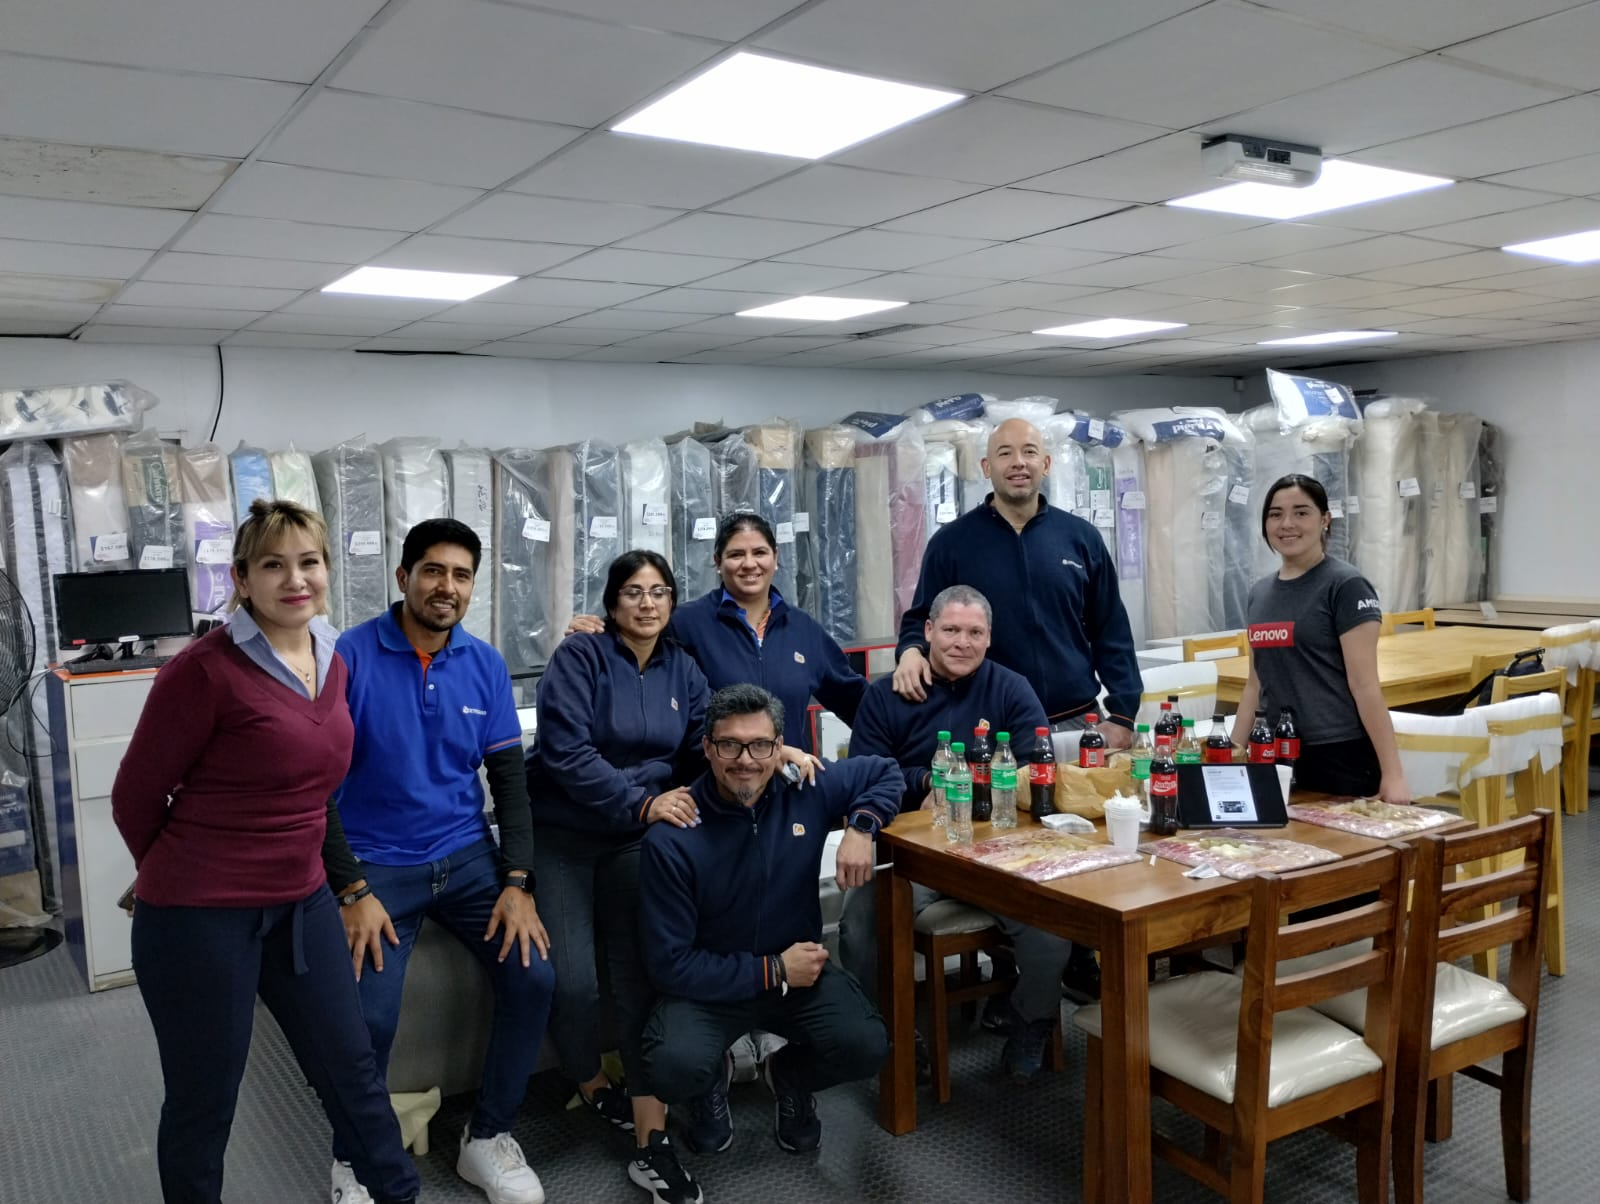
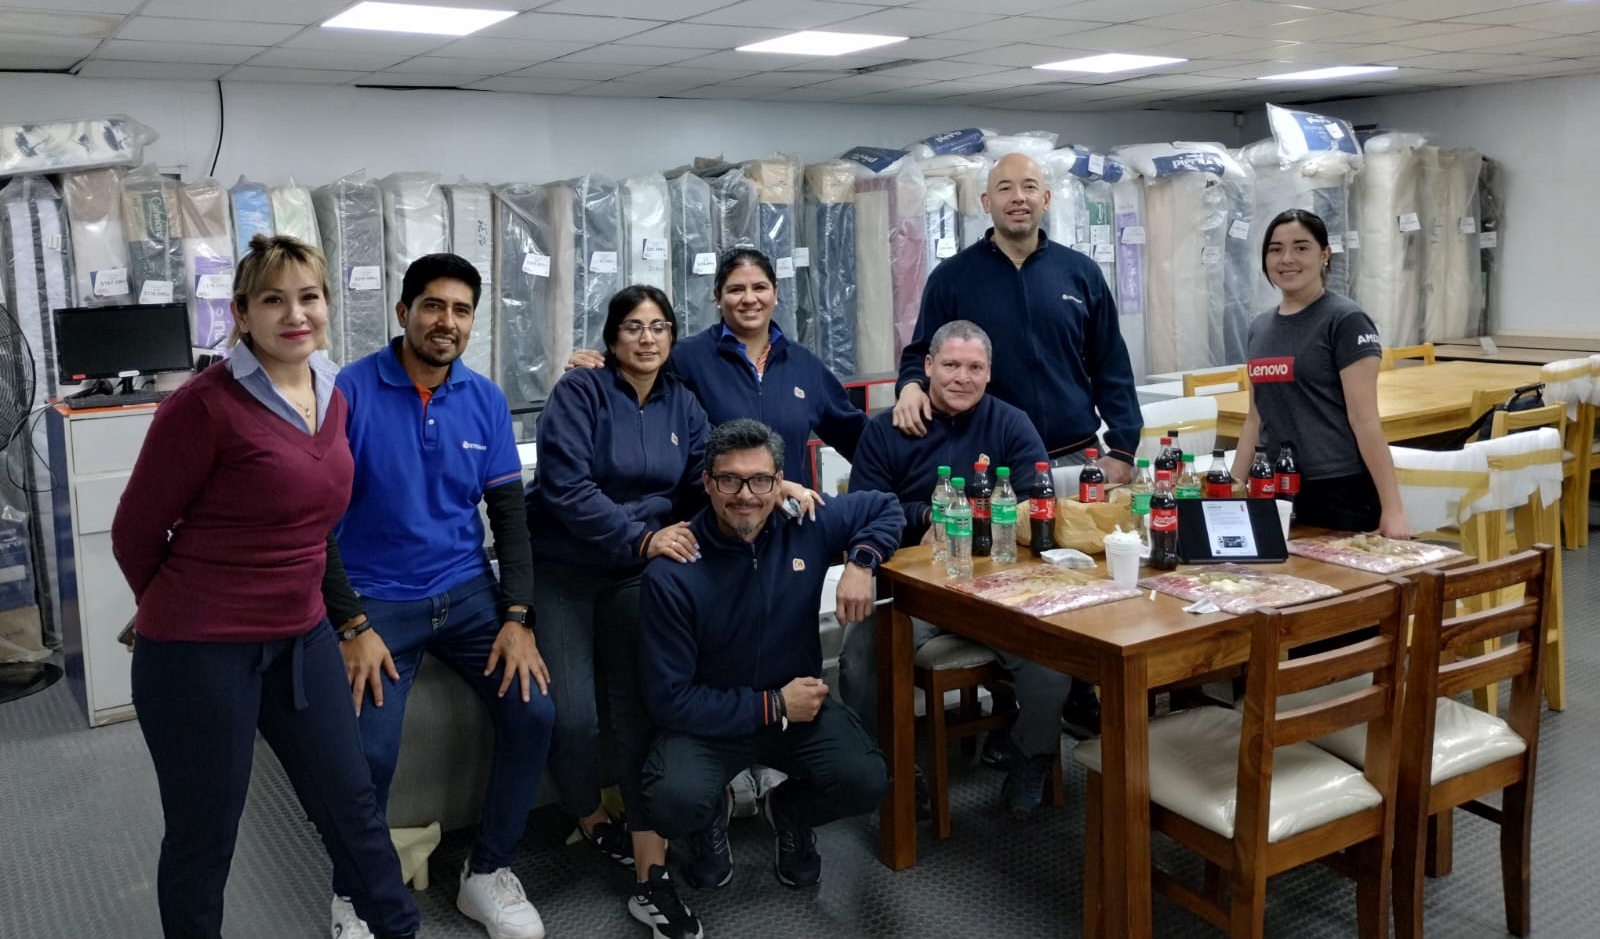
feat: completado datos, etiqueta en barras

diff --git a/js/script.js b/js/script.js
@@ -272,12 +272,24 @@ document.addEventListener('DOMContentLoaded', () => {
           charts[config.id] = new Chart(ctx, {
             type: config.type,
             data: { labels: data.labels, datasets: data.datasets },
-            options: { // Chart options from your previous version...
+            plugins: [ChartDataLabels],
+            options: {
               responsive: true, maintainAspectRatio: false, animation: { duration: 0 }, elements: { bar: { borderWidth: 0 } },
               plugins: {
                 legend: { display: false },
                 tooltip: { enabled: true, backgroundColor: 'rgba(255, 255, 255, 0.95)', titleColor: '#003366', bodyColor: '#333', borderColor: '#e0e0e0', borderWidth: 1, cornerRadius: 6, padding: 10, usePointStyle: true },
-                datalabels: { anchor: 'center', align: 'top', color: '#fff', font: { weight: 'bold', size: 12, family: "'Segoe UI', Tahoma, Geneva, Verdana, sans-serif" }, formatter: Math.round, backgroundColor: context => context.dataset.backgroundColor[context.dataIndex], borderRadius: 4, padding: 4, opacity: 0.9 }
+                datalabels: { 
+                  display: config.type === 'bar',
+                  anchor: 'end', 
+                  align: 'bottom', 
+                  offset: 6,
+                  color: '#ffffff', 
+                  backgroundColor: 'rgba(0, 0, 0, 0.4)',
+                  borderRadius: 4,
+                  padding: { top: 3, bottom: 3, left: 6, right: 6 },
+                  font: { weight: 'bold', size: 13, family: "'Segoe UI', Tahoma, Geneva, Verdana, sans-serif" }, 
+                  formatter: Math.round
+                }
               },
               scales: {
                 y: { beginAtZero: true, ticks: { precision: 0, font: { size: 12, family: "'Segoe UI', Tahoma, Geneva, Verdana, sans-serif", weight: 'bold' }, color: '#ffffff' }, grid: { color: 'rgba(255, 255, 255, 0.1)', lineWidth: 1 } },